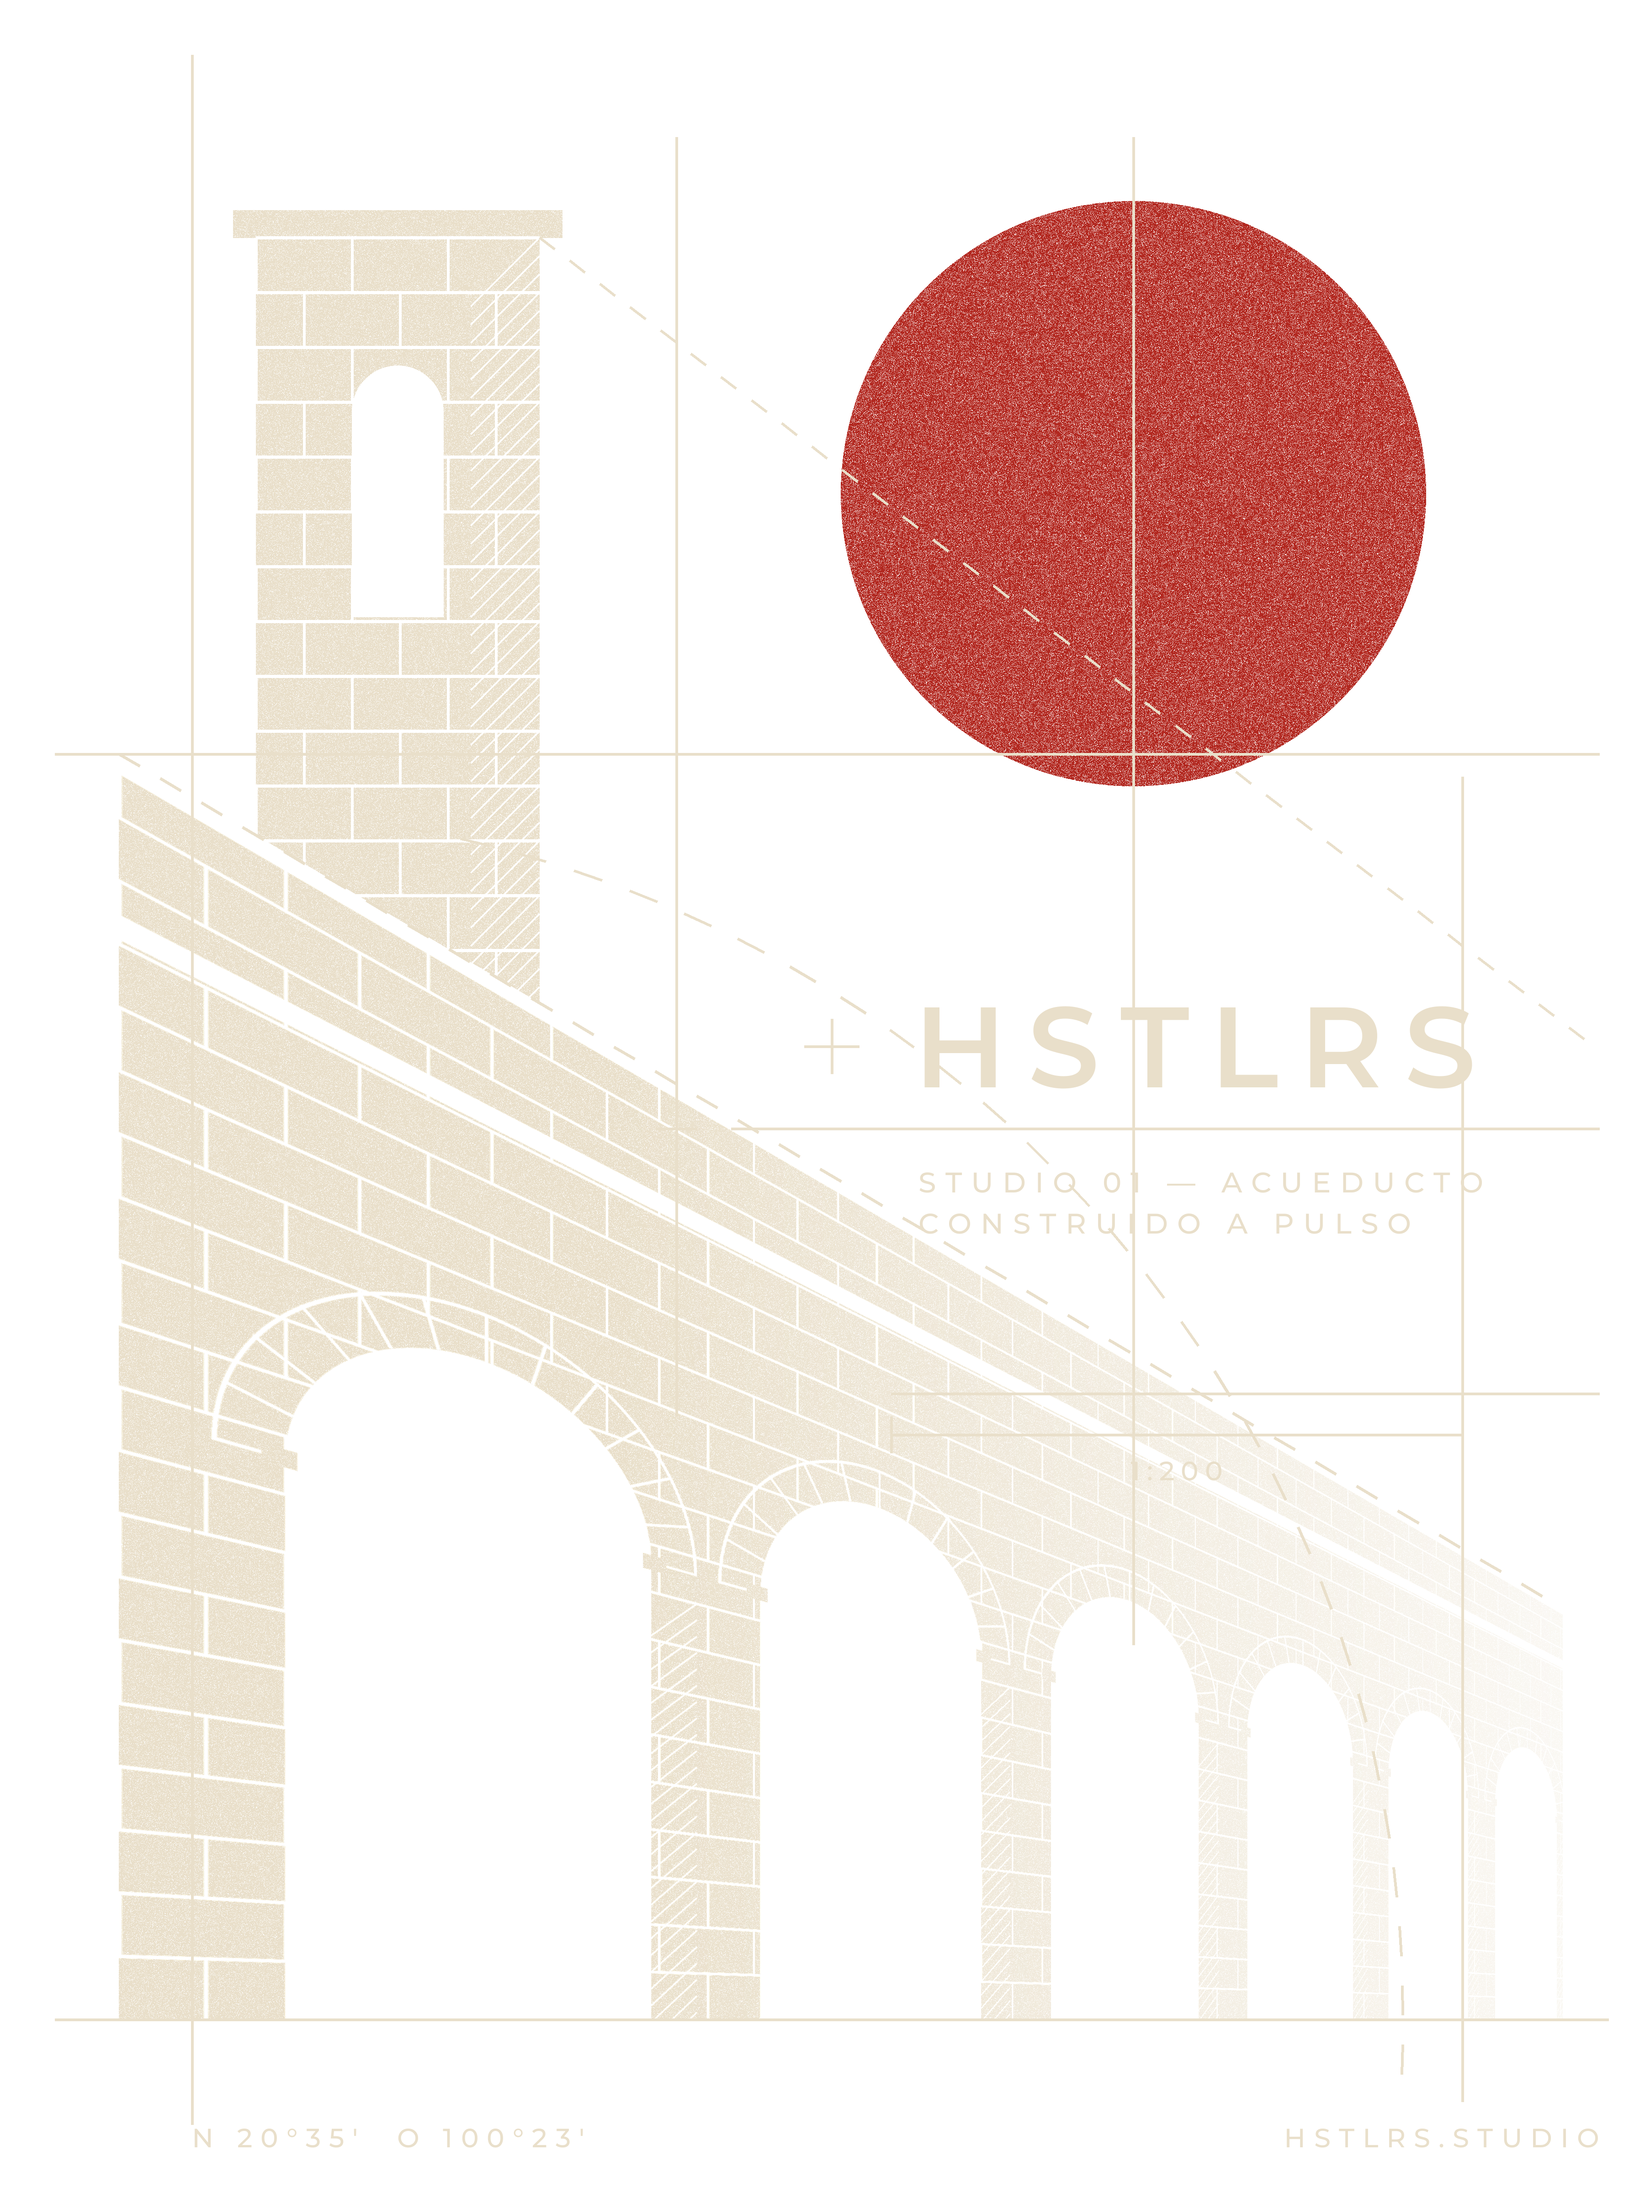
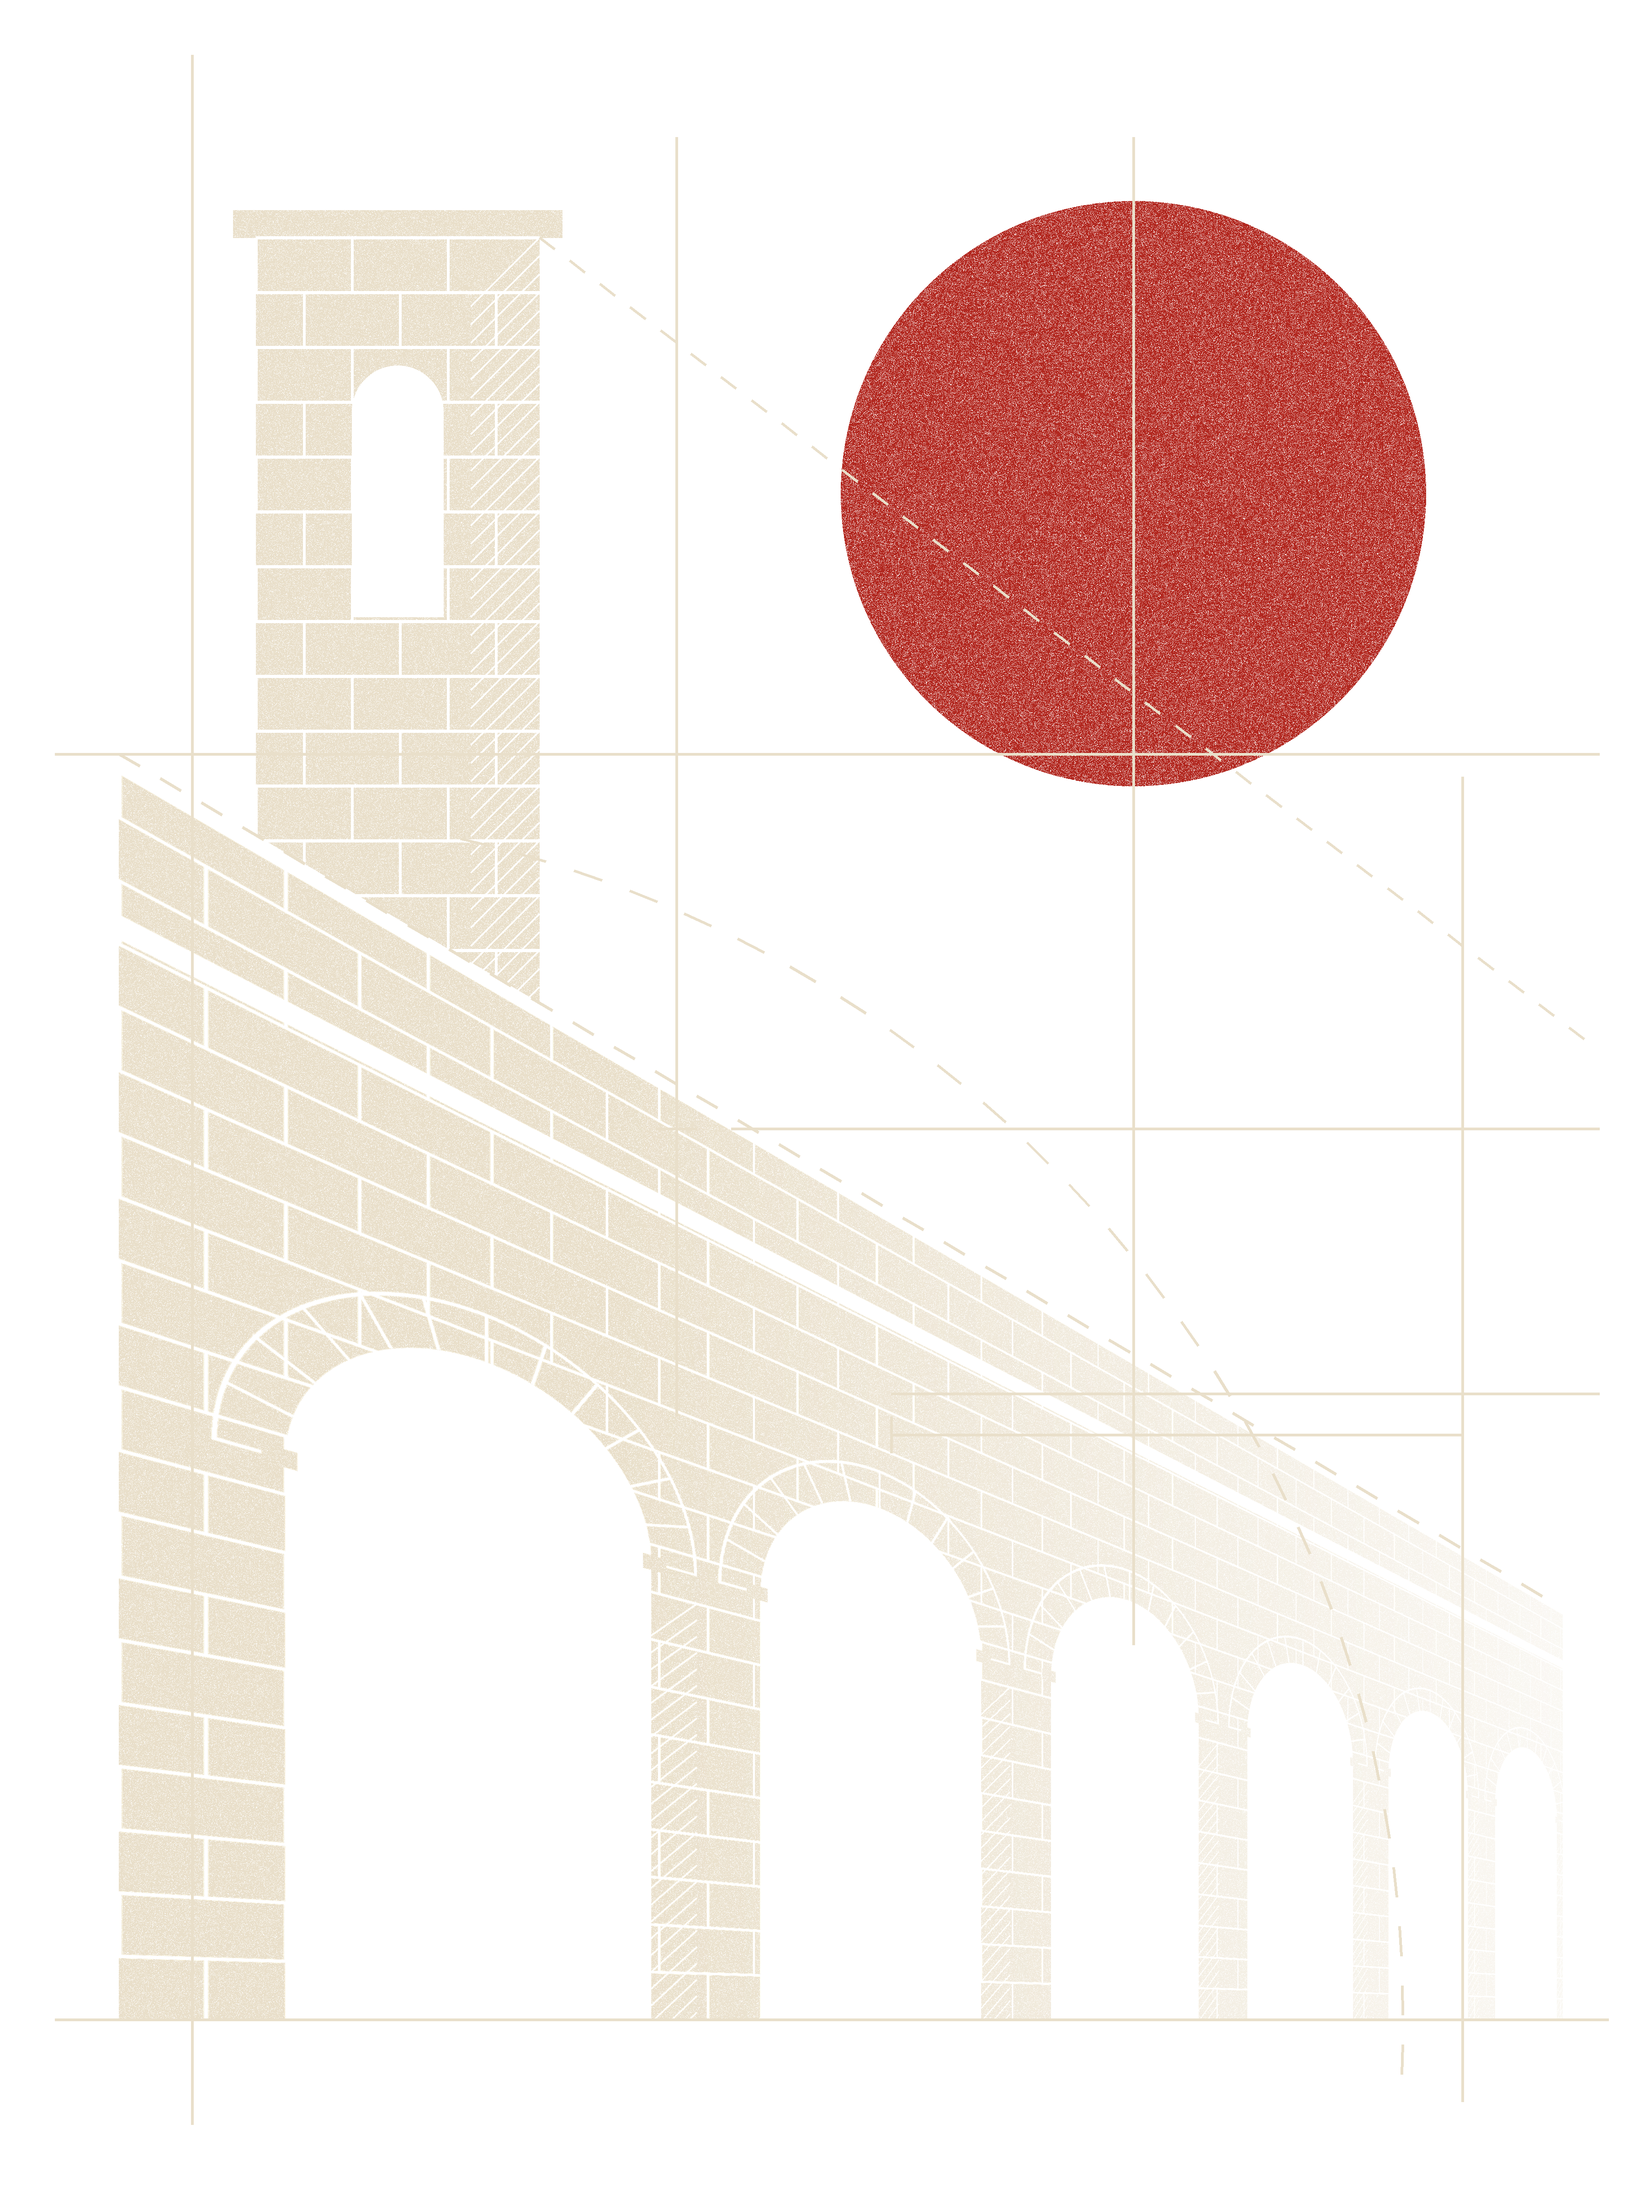
Diseños sin letras y 3 diseños nuevos (topografía, escalera, ciudad)
Claude-Session: https://claude.ai/code/session_013DNV1jFrcSM7ktCTz4AAyr

Changed region(s): [[0.56, 0.4375, 0.9022, 0.5], [0.7467, 0.5312, 0.84, 0.5625], [0.56, 0.5312, 0.6533, 0.5625]]

diff --git a/scripts/arte/new_art.py b/scripts/arte/new_art.py
@@ -1,0 +1,209 @@
+"""Diseños nuevos HSTLRS (solo gráficos, sin letras). Espalda 12x16 in a 300 dpi, fondo transparente."""
+import math, sys
+import numpy as np
+from PIL import Image, ImageDraw, ImageChops
+from skimage import measure
+from scipy import ndimage
+
+W, H = 3600, 4800
+CREAM = (233, 223, 202)
+RED = (178, 40, 32)
+INK = (38, 36, 33)
+OUT = sys.argv[1] if len(sys.argv) > 1 else "."
+
+
+def distress(img, amount, seed):
+    r = np.random.default_rng(seed)
+    a = np.asarray(img.split()[3]).astype(np.float32) / 255
+    small = r.random((H // 40, W // 40)).astype(np.float32)
+    blot = np.asarray(Image.fromarray((small * 255).astype(np.uint8)).resize((W, H), Image.BICUBIC)).astype(np.float32) / 255
+    keep = (r.random((H, W)) > amount * 0.55) & (blot < 1 - amount * 0.9 + 0.35)
+    out = img.copy()
+    out.putalpha(Image.fromarray((a * keep * 255).astype(np.uint8)))
+    return out
+
+
+def dashed(d, pts, fill, width, on=3, off=2):
+    for k in range(0, len(pts) - 1, on + off):
+        seg = pts[k:k + on + 1]
+        if len(seg) > 1:
+            d.line(seg, fill=fill, width=width, joint="curve")
+
+
+# ------------------------------------------------ TOPOGRAFÍA (Follow the Unknown)
+def topografia(ink=CREAM):
+    r = np.random.default_rng(21)
+    n = 480  # rejilla del relieve
+    z = np.zeros((n, int(n * 0.75)))
+    for octave, amp in [(4, 0.8), (8, 0.3), (16, 0.06)]:
+        g = r.normal(size=(octave, int(octave * 0.75) + 1))
+        z += amp * np.asarray(Image.fromarray(g.astype(np.float32), mode="F").resize(z.shape[::-1], Image.BICUBIC))
+    yy, xx = np.mgrid[0:z.shape[0], 0:z.shape[1]]
+    # dos cumbres y una costa (el mar a la izquierda abajo)
+    for cy, cx, hh, s in [(0.38, 0.62, 2.6, 0.16), (0.62, 0.35, 1.7, 0.12), (0.2, 0.28, 1.1, 0.1)]:
+        z += hh * np.exp(-(((yy / z.shape[0]) - cy) ** 2 + ((xx / z.shape[1]) - cx) ** 2) / (2 * s * s))
+    z = ndimage.gaussian_filter(z, 4)
+    sx, sy = (W - 400) / (z.shape[1] - 1), (H - 600) / (z.shape[0] - 1)
+    ox, oy = 200, 300
+    img = Image.new("RGBA", (W, H), (0, 0, 0, 0))
+    d = ImageDraw.Draw(img)
+    levels = np.linspace(z.min() + 0.15, z.max() - 0.02, 32)
+    sea = levels[3]
+    for i, lv in enumerate(levels):
+        for c in measure.find_contours(z, lv):
+            if len(c) < 12:
+                continue
+            pts = [(ox + p[1] * sx, oy + p[0] * sy) for p in c]
+            if i < 3:   # línea de costa y bajos: discontinuas
+                dashed(d, pts, ink + (255,), 6)
+            else:
+                d.line(pts, fill=ink + (255,), width=13 if i % 5 == 0 else 6, joint="curve")
+    # ruta en rojo hacia la cumbre más alta
+    peak = np.unravel_index(np.argmax(z), z.shape)
+    px, py = ox + peak[1] * sx, oy + peak[0] * sy
+    path = []
+    x, y = ox + 0.12 * (W - 400), oy + 0.93 * (H - 600)
+    for t in np.linspace(0, 1, 160):
+        path.append((x + (px - x) * t + 260 * math.sin(t * 9) * (1 - t), y + (py - y) * t + 120 * math.cos(t * 7) * (1 - t)))
+    dashed(d, path, RED + (255,), 16, 2, 2)
+    d.ellipse((px - 34, py - 34, px + 34, py + 34), fill=RED + (255,))
+    d.ellipse((px - 70, py - 70, px + 70, py + 70), outline=RED + (255,), width=10)
+    # marco recortado: desvanece en los bordes
+    m = Image.new("L", (W, H), 0)
+    ImageDraw.Draw(m).rounded_rectangle((200, 300, W - 200, H - 300), radius=40, fill=255)
+    img.putalpha(ImageChops.multiply(img.split()[3], m))
+    # marcas de esquina
+    for cx, cy, sxn, syn in [(200, 300, 1, 1), (W - 200, 300, -1, 1), (200, H - 300, 1, -1), (W - 200, H - 300, -1, -1)]:
+        d.line((cx - 60 * sxn, cy, cx + 120 * sxn, cy), fill=ink + (255,), width=7)
+        d.line((cx, cy - 60 * syn, cx, cy + 120 * syn), fill=ink + (255,), width=7)
+    return distress(img, 0.08, 22)
+
+
+# ------------------------------------------------ ESCALERA AL SOL (Tu ritmo, tu camino)
+def escalera(ink=CREAM):
+    img = Image.new("RGBA", (W, H), (0, 0, 0, 0))
+    d = ImageDraw.Draw(img)
+    c = ink + (255,)
+    # arco monumental
+    ax0, ax1, top, base = 600, 3000, 700, 4300
+    R = (ax1 - ax0) / 2
+    mx, spring = (ax0 + ax1) / 2, top + R
+    # sol rojo dentro del arco, recortado por él
+    sun = Image.new("RGBA", (W, H), (0, 0, 0, 0))
+    ImageDraw.Draw(sun).ellipse((mx - 560, 1050, mx + 560, 2170), fill=RED + (255,))
+    clip = Image.new("L", (W, H), 0)
+    cd = ImageDraw.Draw(clip)
+    cd.pieslice((ax0 + 70, top + 70, ax1 - 70, top + 2 * R - 70), 180, 360, fill=255)
+    cd.rectangle((ax0 + 70, spring, ax1 - 70, base), fill=255)
+    sun.putalpha(ImageChops.multiply(sun.split()[3], clip))
+    img.alpha_composite(distress(sun, 0.25, 31))
+    d = ImageDraw.Draw(img)
+    # dovelas del arco (doble línea con juntas radiales)
+    for rr, wdt in [(R, 12), (R + 160, 12)]:
+        d.arc((mx - rr, spring - rr, mx + rr, spring + rr), 180, 360, fill=c, width=wdt)
+    for k in range(17):
+        t = math.pi + math.pi * k / 16
+        d.line((mx + R * math.cos(t), spring + R * math.sin(t), mx + (R + 160) * math.cos(t), spring + (R + 160) * math.sin(t)), fill=c, width=9)
+    # jambas con sillares
+    for x0, x1 in [(ax0 - 160, ax0), (ax1, ax1 + 160)]:
+        d.rectangle((x0, spring, x1, base), outline=c, width=12)
+        for yy in range(int(spring), base, 150):
+            d.line((x0, yy, x1, yy), fill=c, width=9)
+    # escalera que sube hacia el sol, en perspectiva central
+    steps = 16
+    for i in range(steps):
+        t0, t1 = i / steps, (i + 1) / steps
+        y0 = base - (base - 2250) * (1 - (1 - t0) ** 1.6)
+        y1 = base - (base - 2250) * (1 - (1 - t1) ** 1.6)
+        half0 = 1050 * (1 - 0.82 * t0)
+        half1 = 1050 * (1 - 0.82 * t1)
+        rise = (y0 - y1) * 0.55
+        # huella (relleno sólido) y tabica (rayada)
+        d.polygon([(mx - half0, y0 - rise), (mx + half0, y0 - rise), (mx + half1, y1), (mx - half1, y1)], fill=c)
+        for k in range(0, int(rise), 18):
+            d.line((mx - half0, y0 - k, mx + half0, y0 - k), fill=c, width=6)
+        d.line((mx - half0, y0, mx + half0, y0), fill=c, width=8)
+    # suelo y sombra
+    d.line((300, base, W - 300, base), fill=c, width=12)
+    for k, x in enumerate(range(320, W - 300, 70)):
+        d.line((x, base + 40, x - 60, base + 120), fill=c, width=6)
+    # figura caminando en el primer tercio de la escalera
+    fx, fy = mx + 40, 3380
+    d.ellipse((fx - 34, fy - 300, fx + 34, fy - 232), fill=RED + (255,))
+    d.polygon([(fx - 40, fy - 225), (fx + 40, fy - 225), (fx + 30, fy - 90), (fx - 30, fy - 90)], fill=RED + (255,))
+    d.line((fx - 18, fy - 95, fx - 55, fy), fill=RED + (255,), width=26)
+    d.line((fx + 18, fy - 95, fx + 40, fy - 20), fill=RED + (255,), width=26)
+    return distress(img, 0.12, 32)
+
+
+# ------------------------------------------------ CIUDAD A PULSO (Hecho a pulso) — plano fondo/figura
+def ciudad(ink=INK):
+    r = np.random.default_rng(41)
+    cx, cy, R = W / 2, 2350, 1500
+    base = Image.new("L", (W, H), 0)
+    b = ImageDraw.Draw(base)
+    b.ellipse((cx - R, cy - R, cx + R, cy + R), fill=255)
+    # retícula urbana girada (calles), con trazo fundacional en el centro
+    ang = math.radians(14)
+    ca, sa = math.cos(ang), math.sin(ang)
+
+    def rot(x, y):
+        return cx + x * ca - y * sa, cy + x * sa + y * ca
+    blk = 230
+    for k in range(-9, 10):
+        wdt = 30 if k % 4 else 58
+        b.line([rot(k * blk + r.normal() * 4, -R * 1.3), rot(k * blk + r.normal() * 4, R * 1.3)], fill=0, width=wdt)
+        b.line([rot(-R * 1.3, k * blk * 1.2), rot(R * 1.3, k * blk * 1.2)], fill=0, width=wdt)
+    # avenidas diagonales y periférico
+    b.line([rot(-R * 1.3, -R * 1.0), rot(R * 1.3, R * 1.1)], fill=0, width=80)
+    b.line([rot(-R * 1.2, R * 0.9), rot(R * 0.9, -R * 1.3)], fill=0, width=64)
+    b.ellipse((cx - R * 0.72, cy - R * 0.72, cx + R * 0.72, cy + R * 0.72), outline=0, width=56)
+    # río con meandro
+    for t in np.linspace(0, 1, 1600):
+        x, y = cx - R * 1.1 + t * 2.2 * R, cy + 520 + 260 * math.sin(t * 7.5) + 60 * math.sin(t * 13)
+        b.ellipse((x - 75, y - 75, x + 75, y + 75), fill=0)
+    # plaza central y parques (vacíos)
+    b.ellipse((cx - 230, cy - 230, cx + 230, cy + 230), fill=0)
+    for _ in range(9):
+        px, py = r.uniform(-1, 1) * R * 0.75, r.uniform(-1, 1) * R * 0.75
+        if px * px + py * py < (R * 0.8) ** 2:
+            s = r.uniform(90, 170)
+            b.rectangle(tuple(np.add(rot(px, py) * 2, (-s, -s, s, s))), fill=0)
+    a = np.asarray(base).astype(np.float32) / 255
+    # algunas manzanas con patio (rayado) para textura
+    yy, xx = np.mgrid[0:H, 0:W]
+    hatch = ((xx + yy) // 14) % 3 == 0
+    zone = (np.asarray(Image.fromarray((r.random((40, 30)) * 255).astype(np.uint8)).resize((W, H), Image.NEAREST)) > 150)
+    a = np.where(zone & (a > 0), a * hatch, a)
+    img = Image.new("RGBA", (W, H), ink + (255,))
+    img.putalpha(Image.fromarray((a * 255).astype(np.uint8)))
+    d = ImageDraw.Draw(img)
+    # anillos exteriores y retícula de coordenadas
+    d.ellipse((cx - R - 90, cy - R - 90, cx + R + 90, cy + R + 90), outline=ink + (255,), width=12)
+    d.ellipse((cx - R - 140, cy - R - 140, cx + R + 140, cy + R + 140), outline=ink + (255,), width=6)
+    for k in range(72):
+        t = 2 * math.pi * k / 72
+        l = 60 if k % 6 == 0 else 30
+        d.line((cx + (R + 140) * math.cos(t), cy + (R + 140) * math.sin(t), cx + (R + 140 + l) * math.cos(t), cy + (R + 140 + l) * math.sin(t)), fill=ink + (255,), width=7)
+    # punto rojo "aquí empezó todo"
+    hx, hy = rot(-blk * 2.5, -blk * 1.8)
+    d.ellipse((hx - 46, hy - 46, hx + 46, hy + 46), fill=RED + (255,))
+    d.ellipse((hx - 95, hy - 95, hx + 95, hy + 95), outline=RED + (255,), width=12)
+    # rosa de los vientos mínima abajo
+    sx, sy = cx, cy + R + 520
+    d.polygon([(sx, sy - 170), (sx + 40, sy), (sx, sy + 170), (sx - 40, sy)], fill=ink + (255,))
+    d.polygon([(sx - 170, sy), (sx, sy - 40), (sx + 170, sy), (sx, sy + 40)], outline=ink + (255,), width=7)
+    return distress(img, 0.07, 42)
+
+
+DESIGNS = {
+    "topografia": (topografia, CREAM),
+    "escalera": (escalera, CREAM),
+    "ciudad": (ciudad, INK),
+}
+if __name__ == "__main__":
+    which = sys.argv[2] if len(sys.argv) > 2 else "all"
+    for name, (fn, ink) in DESIGNS.items():
+        if which in ("all", name):
+            fn().save(f"{OUT}/{name}-espalda.png", optimize=True)
+            print("ok", name, flush=True)

diff --git a/scripts/arte/studio_art.py b/scripts/arte/studio_art.py
@@ -17,8 +17,13 @@ def font(w, size):
     return ImageFont.truetype(F + f"montserrat-latin-{w}-normal.ttf", size)
 
 
+NOTEXT = True  # diseños solo gráficos, sin letras
+
+
 def spaced(draw, xy, text, fnt, fill, track, anchor="center"):
     """Texto con interletrado amplio; anchor center/left/right respecto a x."""
+    if NOTEXT:
+        return 0
     widths = [draw.textlength(c, font=fnt) for c in text]
     total = sum(widths) + track * (len(text) - 1)
     x, y = xy
@@ -173,8 +178,6 @@ def acueducto():
 
     # Marca
     spaced(d, (2000, 2380), "HSTLRS", font(600, 250), c, 46, anchor="left")
-    d.line((1760, 2290, 1880, 2290), fill=c, width=lw)
-    d.line((1820, 2230, 1820, 2350), fill=c, width=lw)
     spaced(d, (2010, 2610), "STUDIO 01 — ACUEDUCTO", font(500, 62), c, 20, anchor="left")
     spaced(d, (2010, 2700), "CONSTRUIDO A PULSO", font(500, 62), c, 20, anchor="left")
     spaced(d, (420, 4700), "N 20°35'  O 100°23'", font(500, 58), c, 18, anchor="left")
